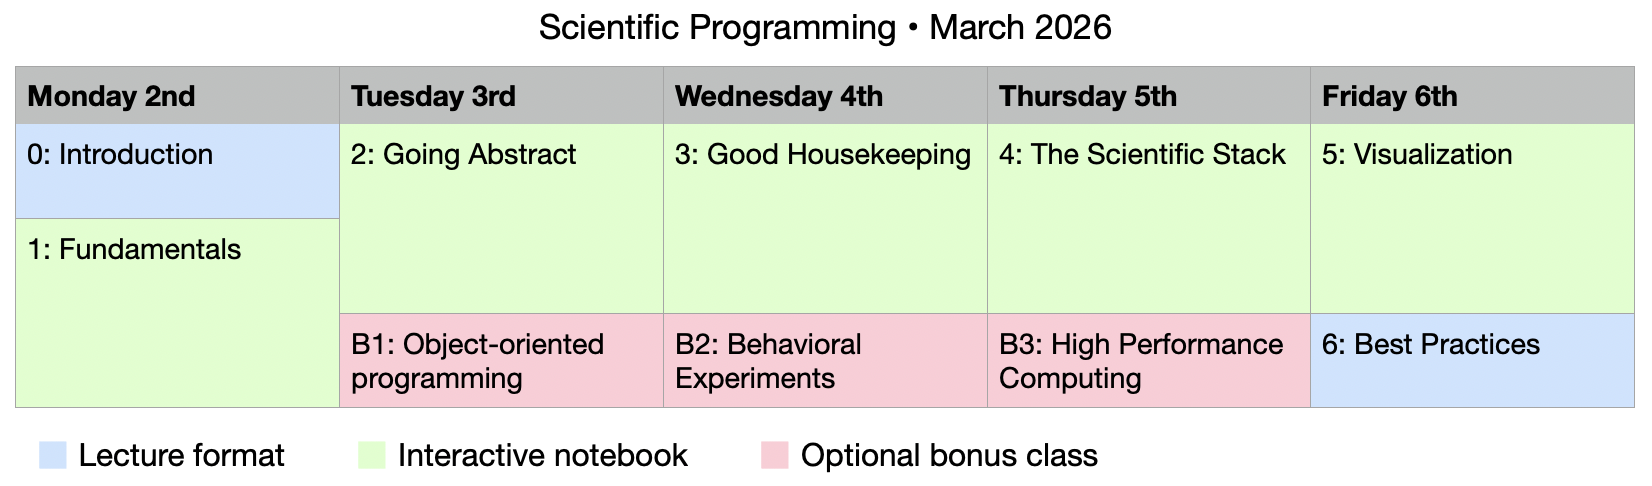
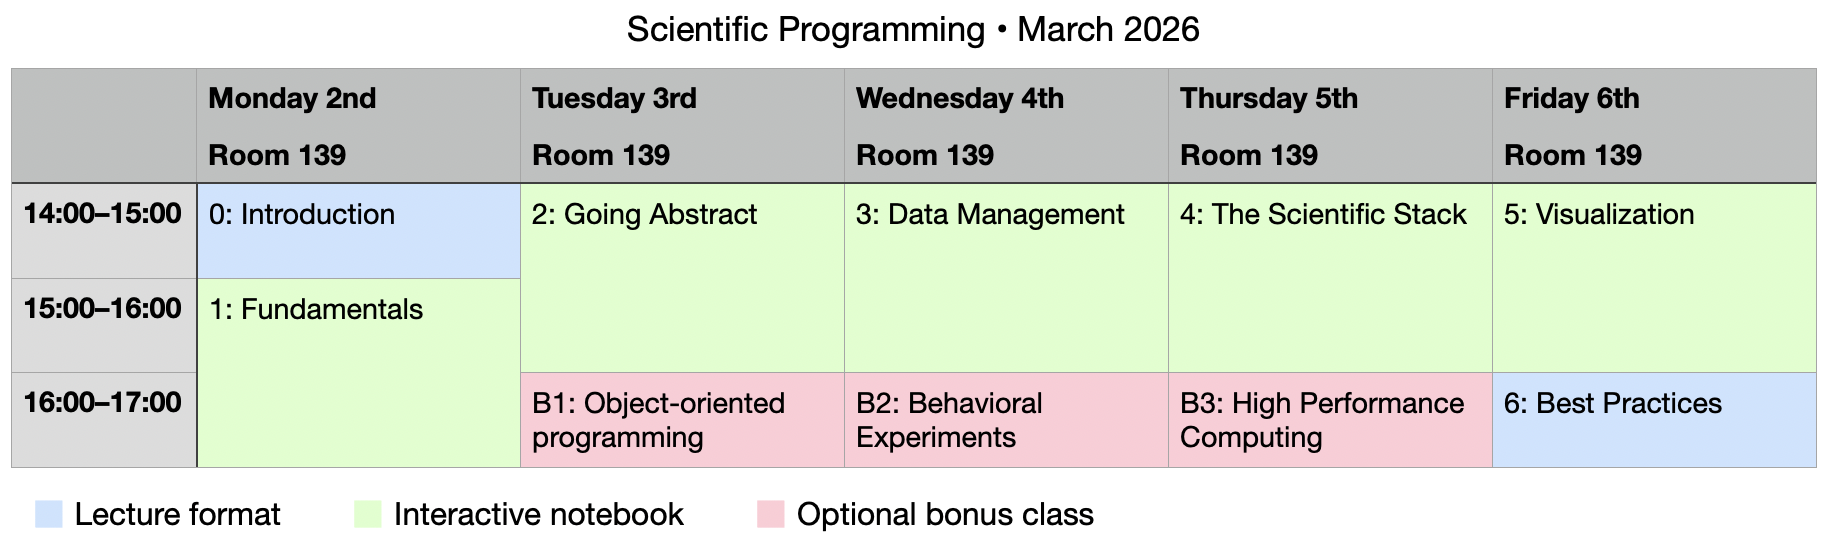
Update course description and installation options

diff --git a/README.md b/README.md
@@ -1,8 +1,10 @@
 # Scientific Programming: A Crash Course
 
-Welcome to this course on Scientific Programming. My name is [Jon Carr](https://joncarr.net). I am currently a software developer, but I used to be a postdoc in Davide Crepaldi’s lab at SISSA. I will be your guide to programming over this week-long course. I look forward to meeting you all soon!
+Welcome to this course on Scientific Programming. My name is Jon Carr. I am currently a software developer, but I used to be a postdoc in Davide Crepaldi’s lab at SISSA. I will be your guide to programming over this week-long course. I look forward to meeting you all soon!
 
 This is a one-week intensive course, which will run daily **from Monday 2nd to Friday 6th March 2026**. Although I will do a little bit of lecturing, the course will mostly be very interactive with lots of practical exercises and independent working. It is therefore important that **you bring a laptop computer with you**.
+
+The class with take place in **Room 139** on the first floor. Before attending the first class, please try to get your computer set up with the relevant software (see below).
 
 
 ## General information
@@ -26,7 +28,7 @@ If you already have some programming experience, you can still take part in this
 
 ### Advanced programmers
 
-If you’re an advanced programmer, then this is probably not the right course for you. Nevertheless, you may enjoy the final lecture on Friday where I will talk about good coding practices in science.
+If you’re an advanced programmer, then this is probably not the right course for you. However, even if you don’t attend the main course, you can still attend the final lecture on Friday at 16:00, where I will discuss good coding practices in science (see below for more details).
 
 
 ## Syllabus
@@ -45,9 +47,9 @@ This class will cover the basics of programming, including core data types (numb
 
 In this unit we will learn how to program more effectively by taking advantage of functions. Optionally, you can also stick around for the bonus unit on object-oriented programming, which covers more advanced types of abstraction.
 
-### 3. Good Housekeeping
+### 3. Data Management
 
-Here we will cover some important – but slightly more general – concepts: Reading and writing data, file paths, handling errors, organization, and working with the terminal.
+Here we will cover several concepts in managing data, including: Reading and writing to data files, file paths, handling errors, databases, and general organization.
 
 ### 4. The Scientific Stack
 
@@ -61,15 +63,15 @@ In the last module, we will look at how to produce attractive and informative vi
 
 In this final lecture, I will speak on the theme of good practices in scientific programming. This lecture is open to anyone at SISSA, even if you didn’t follow the main course. Topics will include:
 
-- Open-source
-- Open-access
 - Reproducibility
 - Version control
-- Virtual environments
 - Documentation
-- Code review
 - Style and code formatting
-- Unit testing and coverage
+- Open source
+- Unit testing
+- Virtual environments
+- Code review
+- Coding with AI
 
 
 ## Bonus units
@@ -91,13 +93,18 @@ In this class, I will give you some tips on how to scale up your code for high-p
 
 ## Software Installation
 
-Before attending the first class, please try to get your computer set up with a working Python installation and the Jupyter Notebook package. Sometimes it can be tricky to get things set up correctly, but I will be available to help you during the first class in case of any problems.
+Before attending the first class, please try to get your computer set up with a working Python installation and the Jupyter Notebook package. Sometimes it can be tricky to get things set up correctly, so don’t worry if you have difficulties – I will be available to help during the first class.
 
-The easiest way to install everything is to use Anaconda: https://www.anaconda.com/download This is a special distribution of Python that includes many of the packages we will need, including Jupyter Notebook. When you click the link above, it asks for an email address, but you can just click the "Skip registration" link. Then, download and install the Anaconda Distribution for your platform. It is also possible to install Miniconda instead, but this will require you to install the packages manually, so it's usually easier to install the main Anaconda distribution.
+The easiest way to install everything is to use Anaconda: https://www.anaconda.com/download/success This is a special distribution of Python that includes many of the packages we will need, including Jupyter Notebook. You should download and install the **Anaconda Distribution** for your platform.
 
-### Alternative installation options
+It is also possible to install Miniconda instead, but this will require you to install all the packages manually, so it’s usually easier to install the main Anaconda distribution.
 
-The Anaconda distribution is quite large, so if you prefer to be more minimalist, another alternative option is to install the official "vanilla" version of Python: https://www.python.org However, I would only recommend this option if you are reasonably familiar with the command line. Once Python is installed, you will then need to install the required packages by running this command:
+
+## Alternative installation options (advanced)
+
+The Anaconda distribution is quite large, so if you prefer to be more minimalist, an alternative option is to install the official "vanilla" version of Python (https://www.python.org) or to use a tool like UV (https://docs.astral.sh/uv/). However, I would only recommend these options if you are reasonably familiar with the command line.
+
+Once you have installed Python, you will then need to install the required packages by running this command:
 
 ```bash
 pip install -r requirements.txt
@@ -114,16 +121,12 @@ If you use Linux or Mac, Python is installed by default as part of the operating
 If you go down the route of installing Python manually (rather than using Anaconda), I would suggest you first create a new virtual environment, so that the packages you install do not conflict with other stuff you might be doing:
 
 ```bash
-mkdir sciprog23
-cd sciprog23
+mkdir sciprog26
+cd sciprog26
 python3 -m venv venv
 source venv/bin/activate
 pip install -r requirements.txt
 jupyter notebook
 ```
 
-If this looks a bit scary, don’t worry, I can help in class.
-
-### Last resort: Web version
-
-Finally, if you encounter major issues getting stuff installed, you can also use the web version of Jupyter Notebook from here: https://jupyter.org/try This is not a good long-term solution, but you will at least be able to follow along with the course.
+If you would like some advice on these more technical methods for installing and managing Python, please feel free to ask in class.
